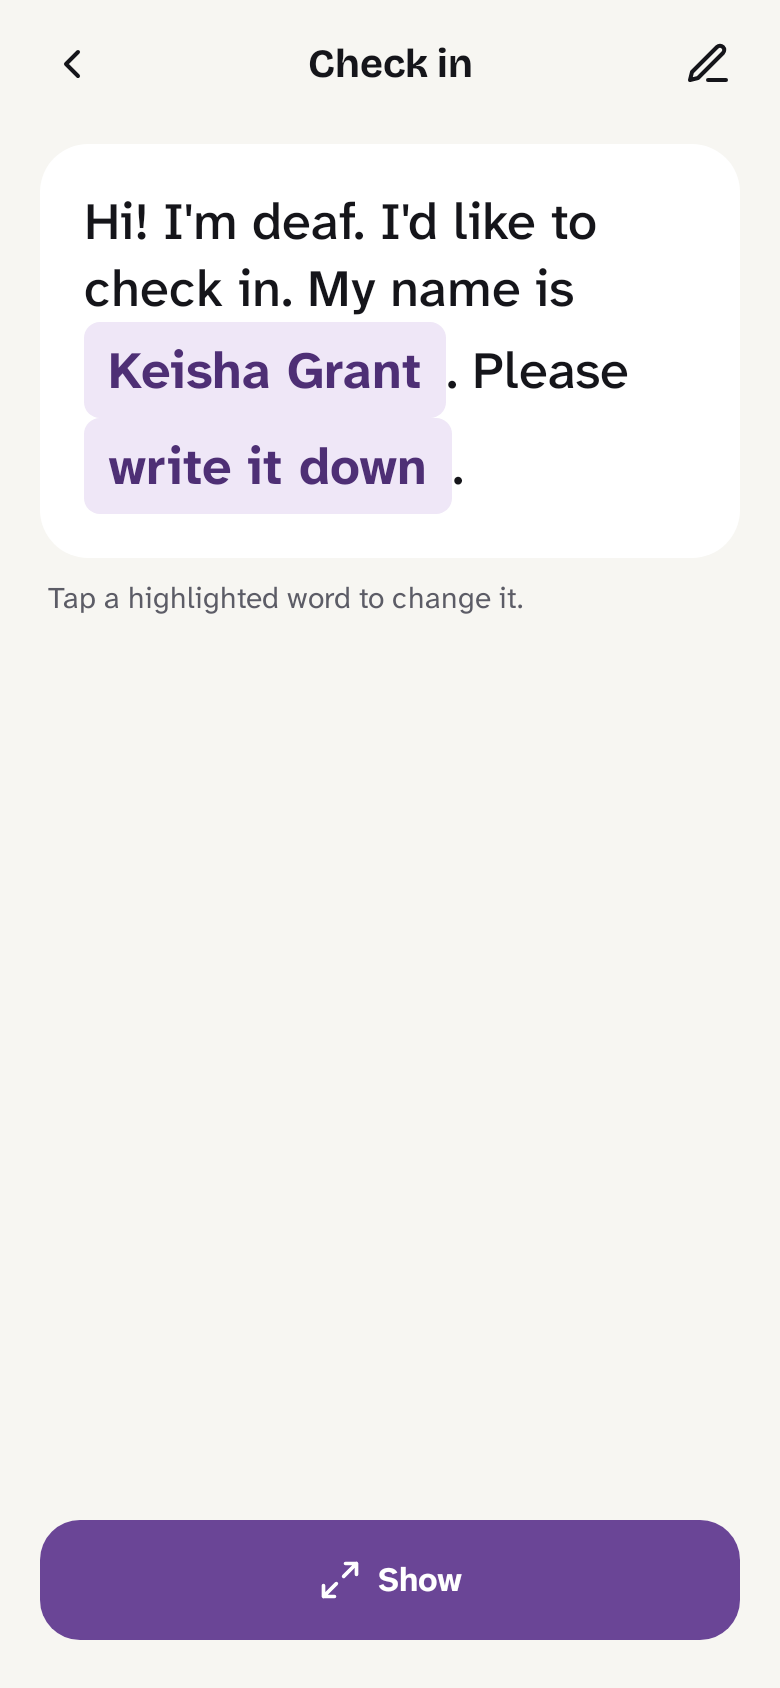
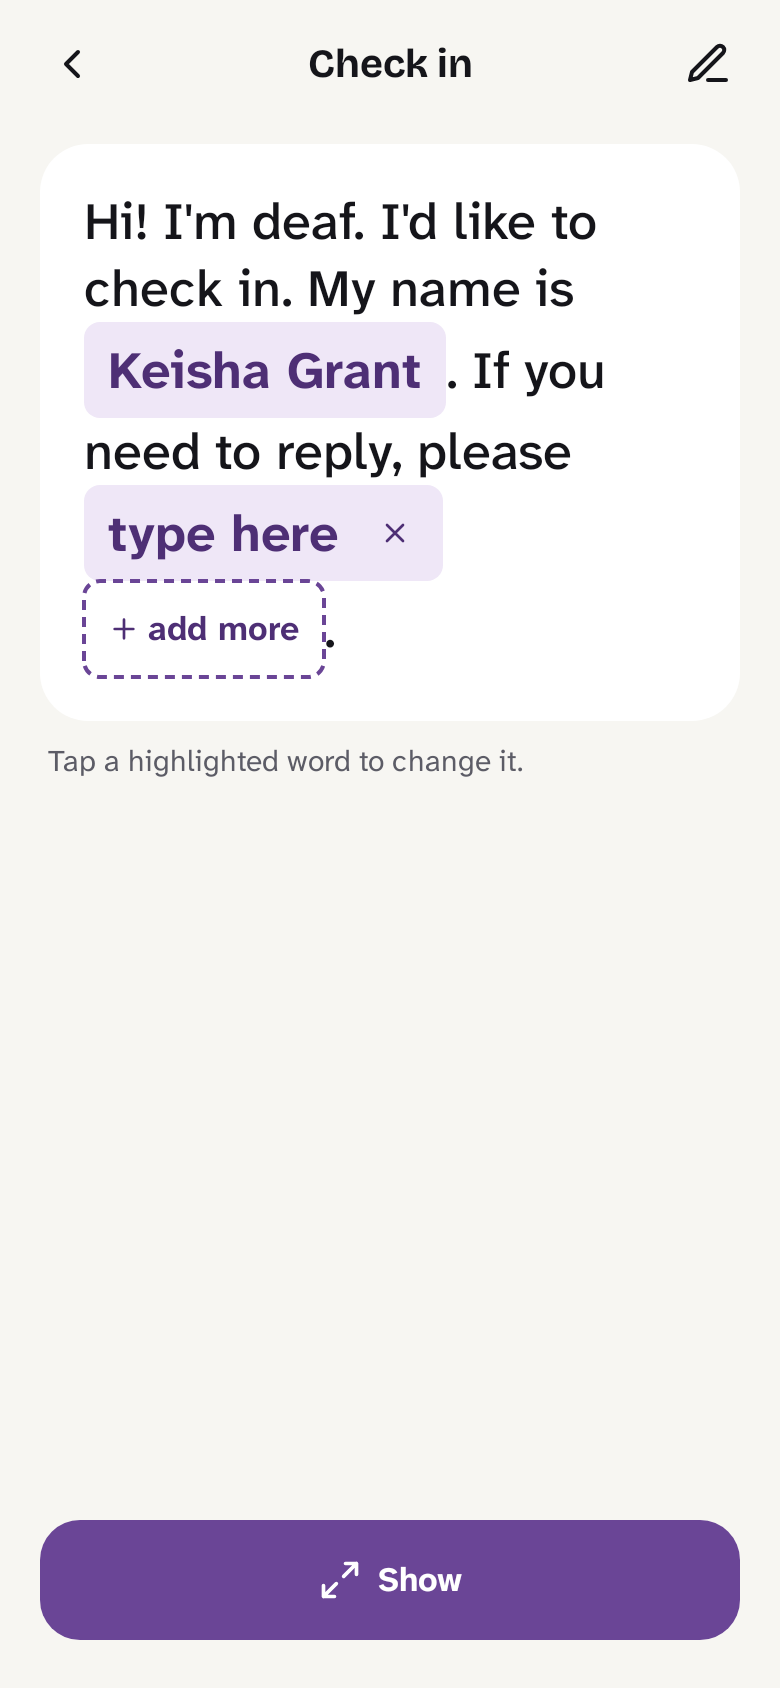
Show the real Check in and Order food templates in screenshots (#90)
The Fill screenshots came from a stale test fixture, so the name post
read "Please write it down." as a sentence and the site's Order food
screen still said "type it on my phone". They now come from captures of
the shipped templates.

diff --git a/marketing/instagram/posts.js b/marketing/instagram/posts.js
@@ -191,7 +191,7 @@ export const posts = [
         type: "screen",
         src: "screens/fill-with-name.webp",
         caption: "It's already there when you check in",
-        alt: "The Check in template reading: Hi! I'm deaf. I'd like to check in. My name is Keisha Grant. Please write it down. A Show button sits below.",
+        alt: "The Check in template reading: Hi! I'm deaf. I'd like to check in. My name is Keisha Grant. If you need to reply, please type here. A Show button sits below.",
       },
       {
         type: "text",
